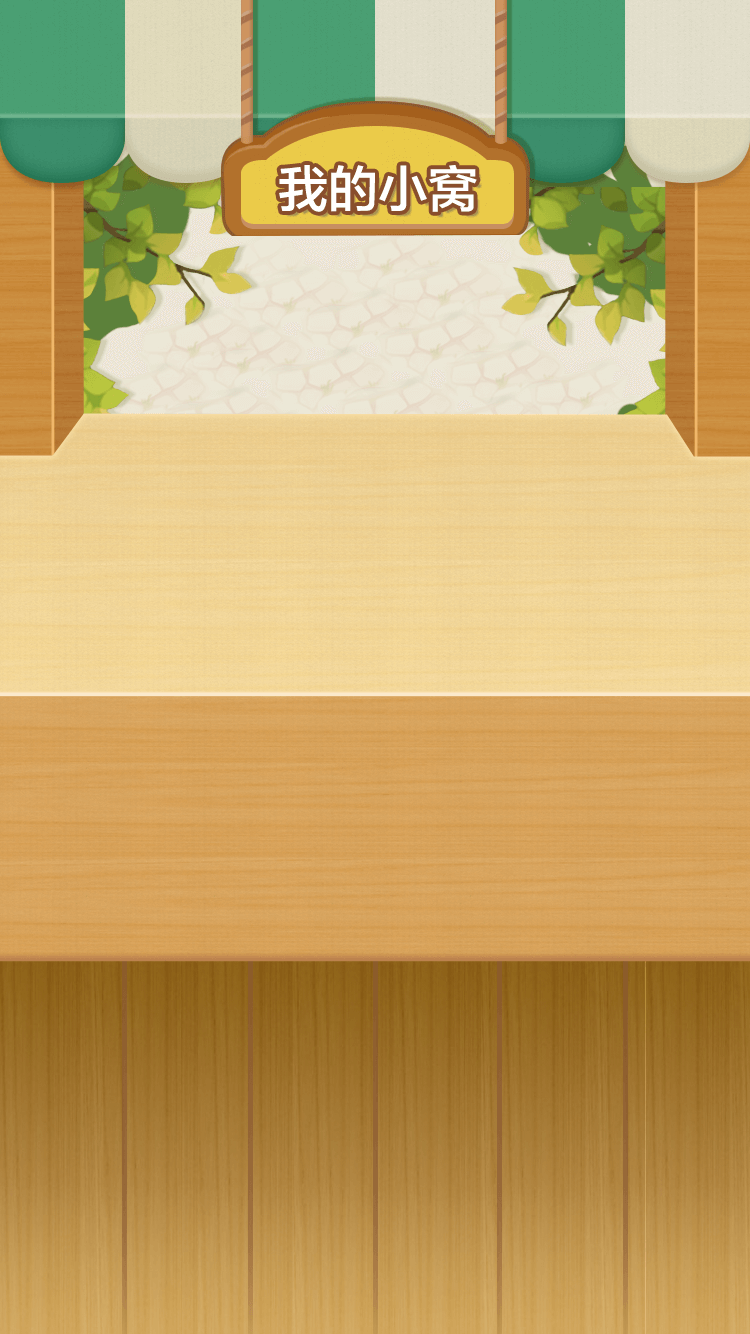
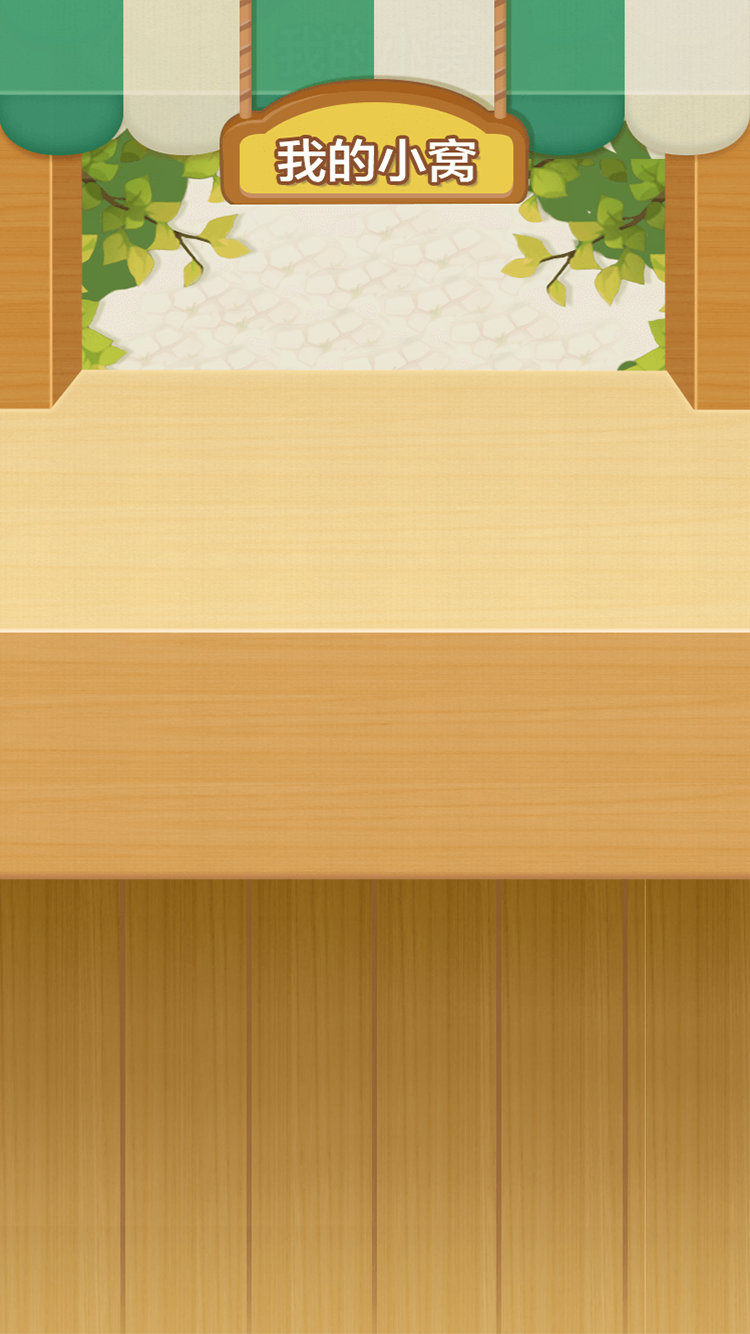
u

diff --git a/src/views/home/House.vue b/src/views/home/House.vue
@@ -34,6 +34,7 @@
                 </span>
           </div>
           <div class="btn-big">
+            <div style="font-size:0.576rem;color:#532e00; font-family:'zhonghei';margin-bottom:.6rem">您已旅行{{i}}座城市，还差({{24-i}})座城市即可解锁彩蛋大奖。</div>
             <span @click="gotoBigDraw" class="btn-egg"></span>
           </div>
       </div>
@@ -65,6 +66,7 @@
         isLotteryFinalAward:true,//默认进行过了
          nowData:0,//总共有几个手信
          t:0,//剩余次数
+         i:0,
           goDrawDialogIsShow:{
             isShow : false,
             isMash:true,
@@ -98,6 +100,13 @@
     //   }
     this.nowData =  window.cats_p;
     this.getdajiang();
+      let lengthCity = 0;
+      window.cityListJson.forEach(element => {
+          if(element.isShow){
+            ++lengthCity;
+          }
+      });
+      this.i = lengthCity;
     },
     destroyed(){
          document.querySelector('#app').removeEventListener('touchmove', this.scrollTouch,false);
@@ -223,7 +232,7 @@
         background-size: 100% 100%;
         .goback{
          position: absolute;
-         top:.64rem;
+         top:.04rem;
          left: .64rem;
          height: 1.898667rem;
          width: 1.877333rem;
@@ -233,7 +242,7 @@
        }
        .body-box{
             position: absolute;
-            top: calc(50% - 6rem);
+            top: calc(50% - 7rem);
             width: 100%;
        }
        .myhouse-icon{
@@ -398,7 +407,7 @@
           text-align: center;
           padding-top: 0.6rem;
           position: absolute;
-          top: calc(50% - 6rem + 5.84rem);
+          top: calc(50% - 7.4rem + 5.84rem);
           left:calc(50% - 7.51rem);
           .tip-img{
              height: 4.842667rem;
@@ -416,7 +425,7 @@
         height: 3.392rem;
         width: 100%;
         position: fixed;
-        bottom:13%;
+        bottom:20%;
         text-align: center;
         .btn-one{
              display: inline-block;
@@ -443,7 +452,7 @@
       }
     }
     .btn-big{
-        height: 3.392rem;
+        height: 4.92rem;
         width: 100%;
         position: fixed;
         bottom: 0.4rem;

diff --git a/src/main.js b/src/main.js
@@ -20,6 +20,7 @@ if (url.indexOf("?") != -1) {
    }   
 }
 var CMBLS ={};
+window.gobacks = -1;
 window.CMBLS = CMBLS;
 /* document.referrer
 window.addEventListener('pageshow', function( e ){
@@ -177,6 +178,7 @@ window.$post= function (data) {
 //   Historybool = true;
 // },1500) 
 window.addEventListener("popstate", function(evt) {
+  window.gobacks = -history.length || -1;
   if(history.state == null){
     //首次可能在刷新的时候会触发，但这里不需要处理，因为beforeRouteUpdate方法处理的时候肯定不会是第一次
     window.historyisHistory = true;

diff --git a/src/views/home/oneAlert.vue b/src/views/home/oneAlert.vue
@@ -99,8 +99,7 @@
           //关闭页面逻辑
           this.dataOjb.isShow = false;
           //跳转到招商app;
-          window.location.href="about:blank";
-          window.close();
+          window.location.href="http://cmbls/functionjump?action=gochannel&channelname=home";
       },
       closeDailog(){
           this.dataOjb.isShow = false;
